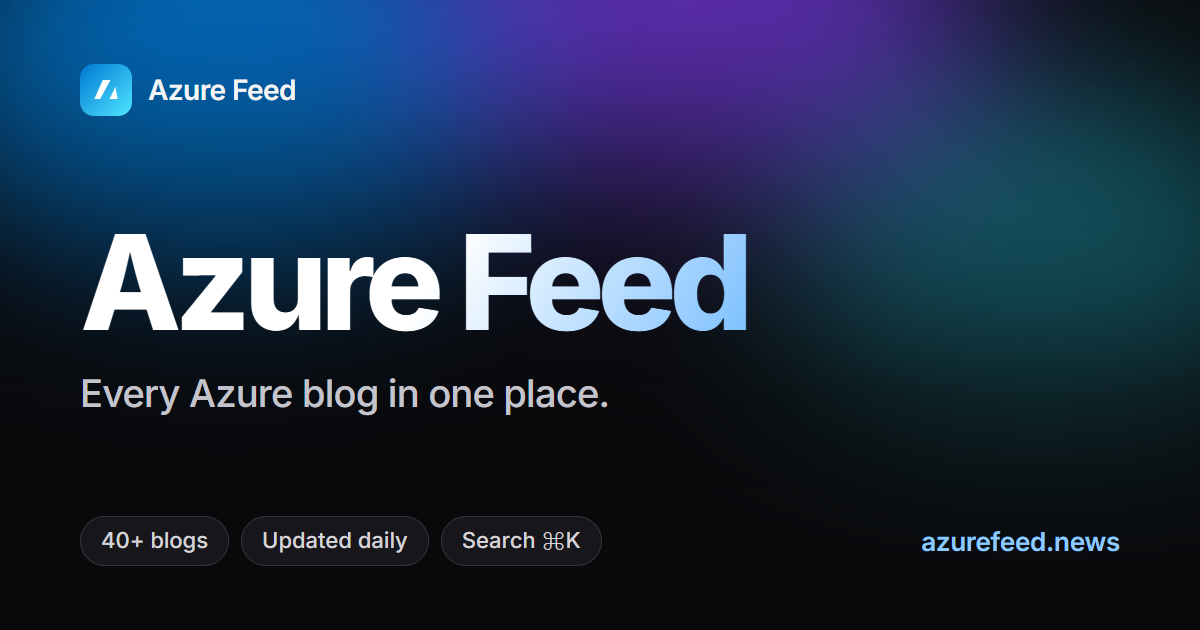
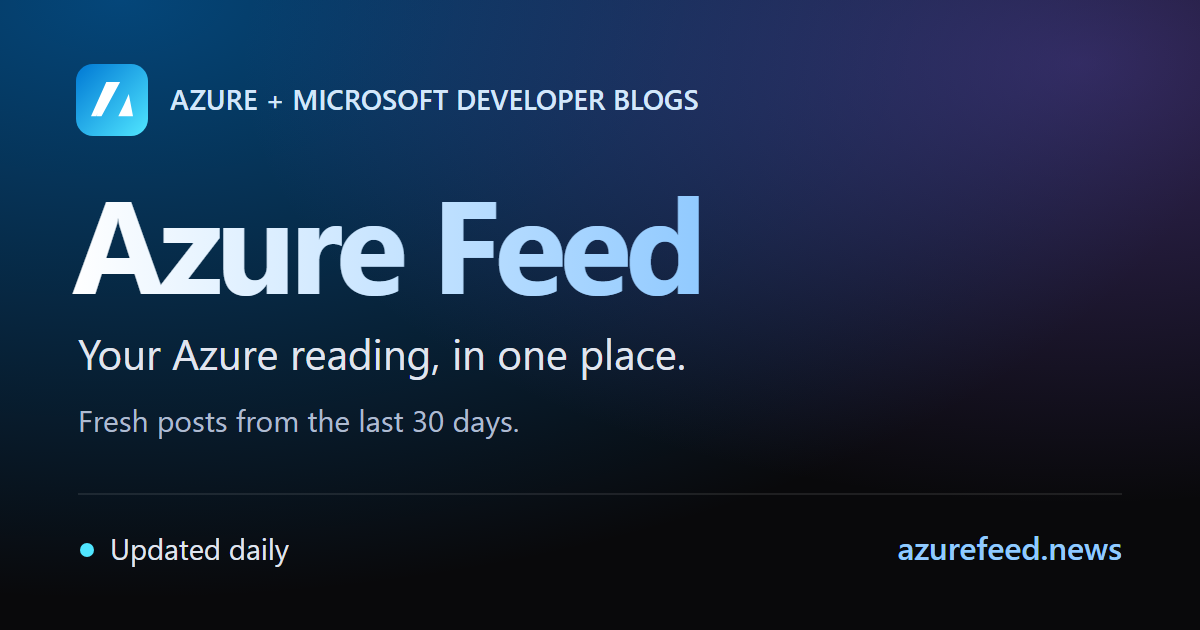
Add publication day filter and refresh social preview

diff --git a/index.html b/index.html
@@ -10,15 +10,17 @@
   <meta property="og:title" content="Azure Feed">
   <meta property="og:description" content="Daily aggregated news from Azure blogs — search, filter, bookmark, and share.">
   <meta property="og:url" content="https://azurefeed.news">
-  <meta property="og:image" content="https://azurefeed.news/og-image.png?v=2">
+  <meta property="og:image" content="https://azurefeed.news/og-image.png?v=3">
+  <meta property="og:image:type" content="image/png">
   <meta property="og:image:width" content="1200">
   <meta property="og:image:height" content="630">
-  <meta property="og:image:alt" content="Azure Feed — every Azure blog in one place">
+  <meta property="og:image:alt" content="Azure Feed: Azure and Microsoft developer blogs in one place. Updated daily.">
   <!-- Twitter Card -->
   <meta name="twitter:card" content="summary_large_image">
   <meta name="twitter:title" content="Azure Feed">
   <meta name="twitter:description" content="Daily aggregated news from Azure blogs — search, filter, bookmark, and share.">
-  <meta name="twitter:image" content="https://azurefeed.news/og-image.png?v=2">
+  <meta name="twitter:image" content="https://azurefeed.news/og-image.png?v=3">
+  <meta name="twitter:image:alt" content="Azure Feed: Azure and Microsoft developer blogs in one place. Updated daily.">
   <!-- PWA -->
   <meta name="theme-color" content="#0078D4">
   <link rel="manifest" href="manifest.json">
@@ -30,7 +32,7 @@
   <link rel="preconnect" href="https://fonts.googleapis.com">
   <link rel="preconnect" href="https://fonts.gstatic.com" crossorigin>
   <link rel="stylesheet" href="https://fonts.googleapis.com/css2?family=Inter:wght@400;500;600;700&display=swap">
-  <link rel="stylesheet" href="css/styles.css?v=8">
+  <link rel="stylesheet" href="css/styles.css?v=9">
   <!-- Google Analytics -->
   <script async src="https://www.googletagmanager.com/gtag/js?id=G-DWJ9GXBL0M"></script>
   <script>
@@ -93,12 +95,14 @@
           <button type="button" id="view-list" class="active" title="Comfortable view" aria-label="Comfortable view"><svg class="icon" viewBox="0 0 24 24" fill="none" stroke="currentColor" stroke-width="2" stroke-linecap="round"><path d="M4 6h16M4 12h16M4 18h10"/></svg></button>
           <button type="button" id="view-compact" title="Compact view" aria-label="Compact view"><svg class="icon" viewBox="0 0 24 24" fill="none" stroke="currentColor" stroke-width="2" stroke-linecap="round"><path d="M4 5h16M4 9.5h16M4 14h16M4 18.5h16"/></svg></button>
         </div>
-        <select id="date-filter">
+        <select id="date-filter" aria-label="Publication period">
           <option value="all">All Time</option>
           <option value="today">Today</option>
           <option value="week">This Week</option>
           <option value="month">This Month</option>
+          <option value="day">Specific day</option>
         </select>
+        <input type="date" id="publication-date" aria-label="Publication date (your local time)" title="Blog publication date in your local time. Only the last 30 days are available." hidden>
         <select id="sort-by">
           <option value="date-desc">Newest First</option>
           <option value="date-asc">Oldest First</option>
@@ -137,6 +141,6 @@
     <p>Azure Feed &bull; Updated daily via <a href="https://github.com/ricmmartins/azurenewsfeed" target="_blank" rel="noopener">GitHub Actions</a> &bull; <a href="data/feed.xml" target="_blank" rel="noopener">RSS Feed</a></p>
   </footer>
 
-  <script src="js/app.js?v=8"></script>
+  <script src="js/app.js?v=9"></script>
 </body>
 </html>

diff --git a/js/app.js b/js/app.js
@@ -81,6 +81,7 @@
   var searchInput = document.getElementById("search-input");
   var sortSelect = document.getElementById("sort-by");
   var dateFilter = document.getElementById("date-filter");
+  var publicationDate = document.getElementById("publication-date");
   var themeToggle = document.getElementById("theme-toggle");
   var filterPills = document.getElementById("filter-pills");
   var showingCount = document.getElementById("showing-count");
@@ -126,7 +127,7 @@
   // ===== Service Worker =====
   function registerServiceWorker() {
     if ("serviceWorker" in navigator) {
-      navigator.serviceWorker.register("sw.js?v=8").catch(function () {});
+      navigator.serviceWorker.register("sw.js?v=9").catch(function () {});
     }
   }
 
@@ -288,7 +289,16 @@
 
     // Date filter
     var dateVal = dateFilter ? dateFilter.value : "all";
-    if (dateVal !== "all") {
+    if (dateVal === "day") {
+      var start = new Date(publicationDate.value + "T00:00:00");
+      var end = new Date(start);
+      // Calendar arithmetic keeps local days correct across daylight saving changes.
+      end.setDate(end.getDate() + 1);
+      result = result.filter(function (a) {
+        var published = new Date(a.published);
+        return published >= start && published < end;
+      });
+    } else if (dateVal !== "all") {
       var now = new Date();
       var cutoff = new Date();
       switch (dateVal) {
@@ -533,6 +543,24 @@
 
     // Date filter
     dateFilter.addEventListener("change", function () {
+      publicationDate.hidden = dateFilter.value !== "day";
+      if (!publicationDate.hidden) {
+        var today = new Date();
+        var oldest = new Date(today);
+        oldest.setDate(oldest.getDate() - 30);
+        publicationDate.max = localDateValue(today);
+        publicationDate.min = localDateValue(oldest);
+        if (!publicationDate.value) publicationDate.value = publicationDate.max;
+      }
+      applyFilters();
+    });
+    publicationDate.addEventListener("change", function () {
+      if (!publicationDate.value) {
+        dateFilter.value = "all";
+        dateFilter.dispatchEvent(new Event("change"));
+        return;
+      }
+      if (!publicationDate.reportValidity()) return;
       applyFilters();
     });
 
@@ -632,6 +660,12 @@
   }
 
   // ===== Custom select dropdowns (native select stays as source of truth) =====
+  function localDateValue(date) {
+    return date.getFullYear() + "-" +
+      String(date.getMonth() + 1).padStart(2, "0") + "-" +
+      String(date.getDate()).padStart(2, "0");
+  }
+
   function enhanceSelect(select) {
     var wrap = document.createElement("div");
     wrap.className = "dd";
@@ -678,6 +712,7 @@
     wrap.appendChild(btn);
     wrap.appendChild(menu);
     wrap.appendChild(select);
+    select.addEventListener("change", sync);
     sync();
   }
 

diff --git a/css/styles.css b/css/styles.css
@@ -461,8 +461,23 @@ main {
 
 .controls-right {
   display: flex;
+  flex-wrap: wrap;
   gap: 0.5rem;
   align-items: center;
+}
+
+#publication-date {
+  padding: 0.35rem 0.6rem;
+  border: 1px solid var(--border-color);
+  border-radius: 10px;
+  background: var(--bg-secondary);
+  color: var(--text-primary);
+  font: inherit;
+  font-size: 0.8rem;
+}
+
+[data-theme="dark"] #publication-date {
+  color-scheme: dark;
 }
 
 #showing-count {

diff --git a/sw.js b/sw.js
@@ -1,9 +1,9 @@
-const CACHE_NAME = "azurefeed-v8";
+const CACHE_NAME = "azurefeed-v9";
 const STATIC_ASSETS = [
   "/",
   "/index.html",
-  "/css/styles.css?v=8",
-  "/js/app.js?v=8",
+  "/css/styles.css?v=9",
+  "/js/app.js?v=9",
   "/manifest.json",
 ];
 

diff --git a/README.md b/README.md
@@ -8,6 +8,7 @@ A daily-updated Azure blog aggregator hosted on GitHub Pages. Collects articles 
 
 - 📰 **50 blog sources** — Azure, DevOps, Developer Tools, Data & AI, and more
 - 🔍 **Search & filter** — Find articles by keyword, blog category, or date range
+- 📆 **Specific day** — Select a publication day within the last 30 days, using your browser's local time; combines with search, category, and bookmarks. Dates refer to blog posts, not product release dates.
 - ⭐ **Bookmarks** — Save articles for later (stored locally per browser)
 - 🌙 **Dark mode** — Easy on the eyes
 - 📱 **Responsive** — Works on desktop, tablet, and mobile
@@ -73,6 +74,10 @@ python -m http.server 8000
 ```
 
 Open [http://localhost:8000](http://localhost:8000) in your browser.
+
+### Link preview image
+
+The editable social card is `icons/social-card.svg`. Export it at 1200 x 630 pixels to `og-image.png` after changing the artwork, and bump the image URL version in both Open Graph and Twitter metadata in `index.html`. After deployment, use the [LinkedIn Post Inspector](https://www.linkedin.com/post-inspector/) to refresh a cached link preview.
 
 ## 🎬 Teleprompter - Roteiro Diário para Vídeo
 
